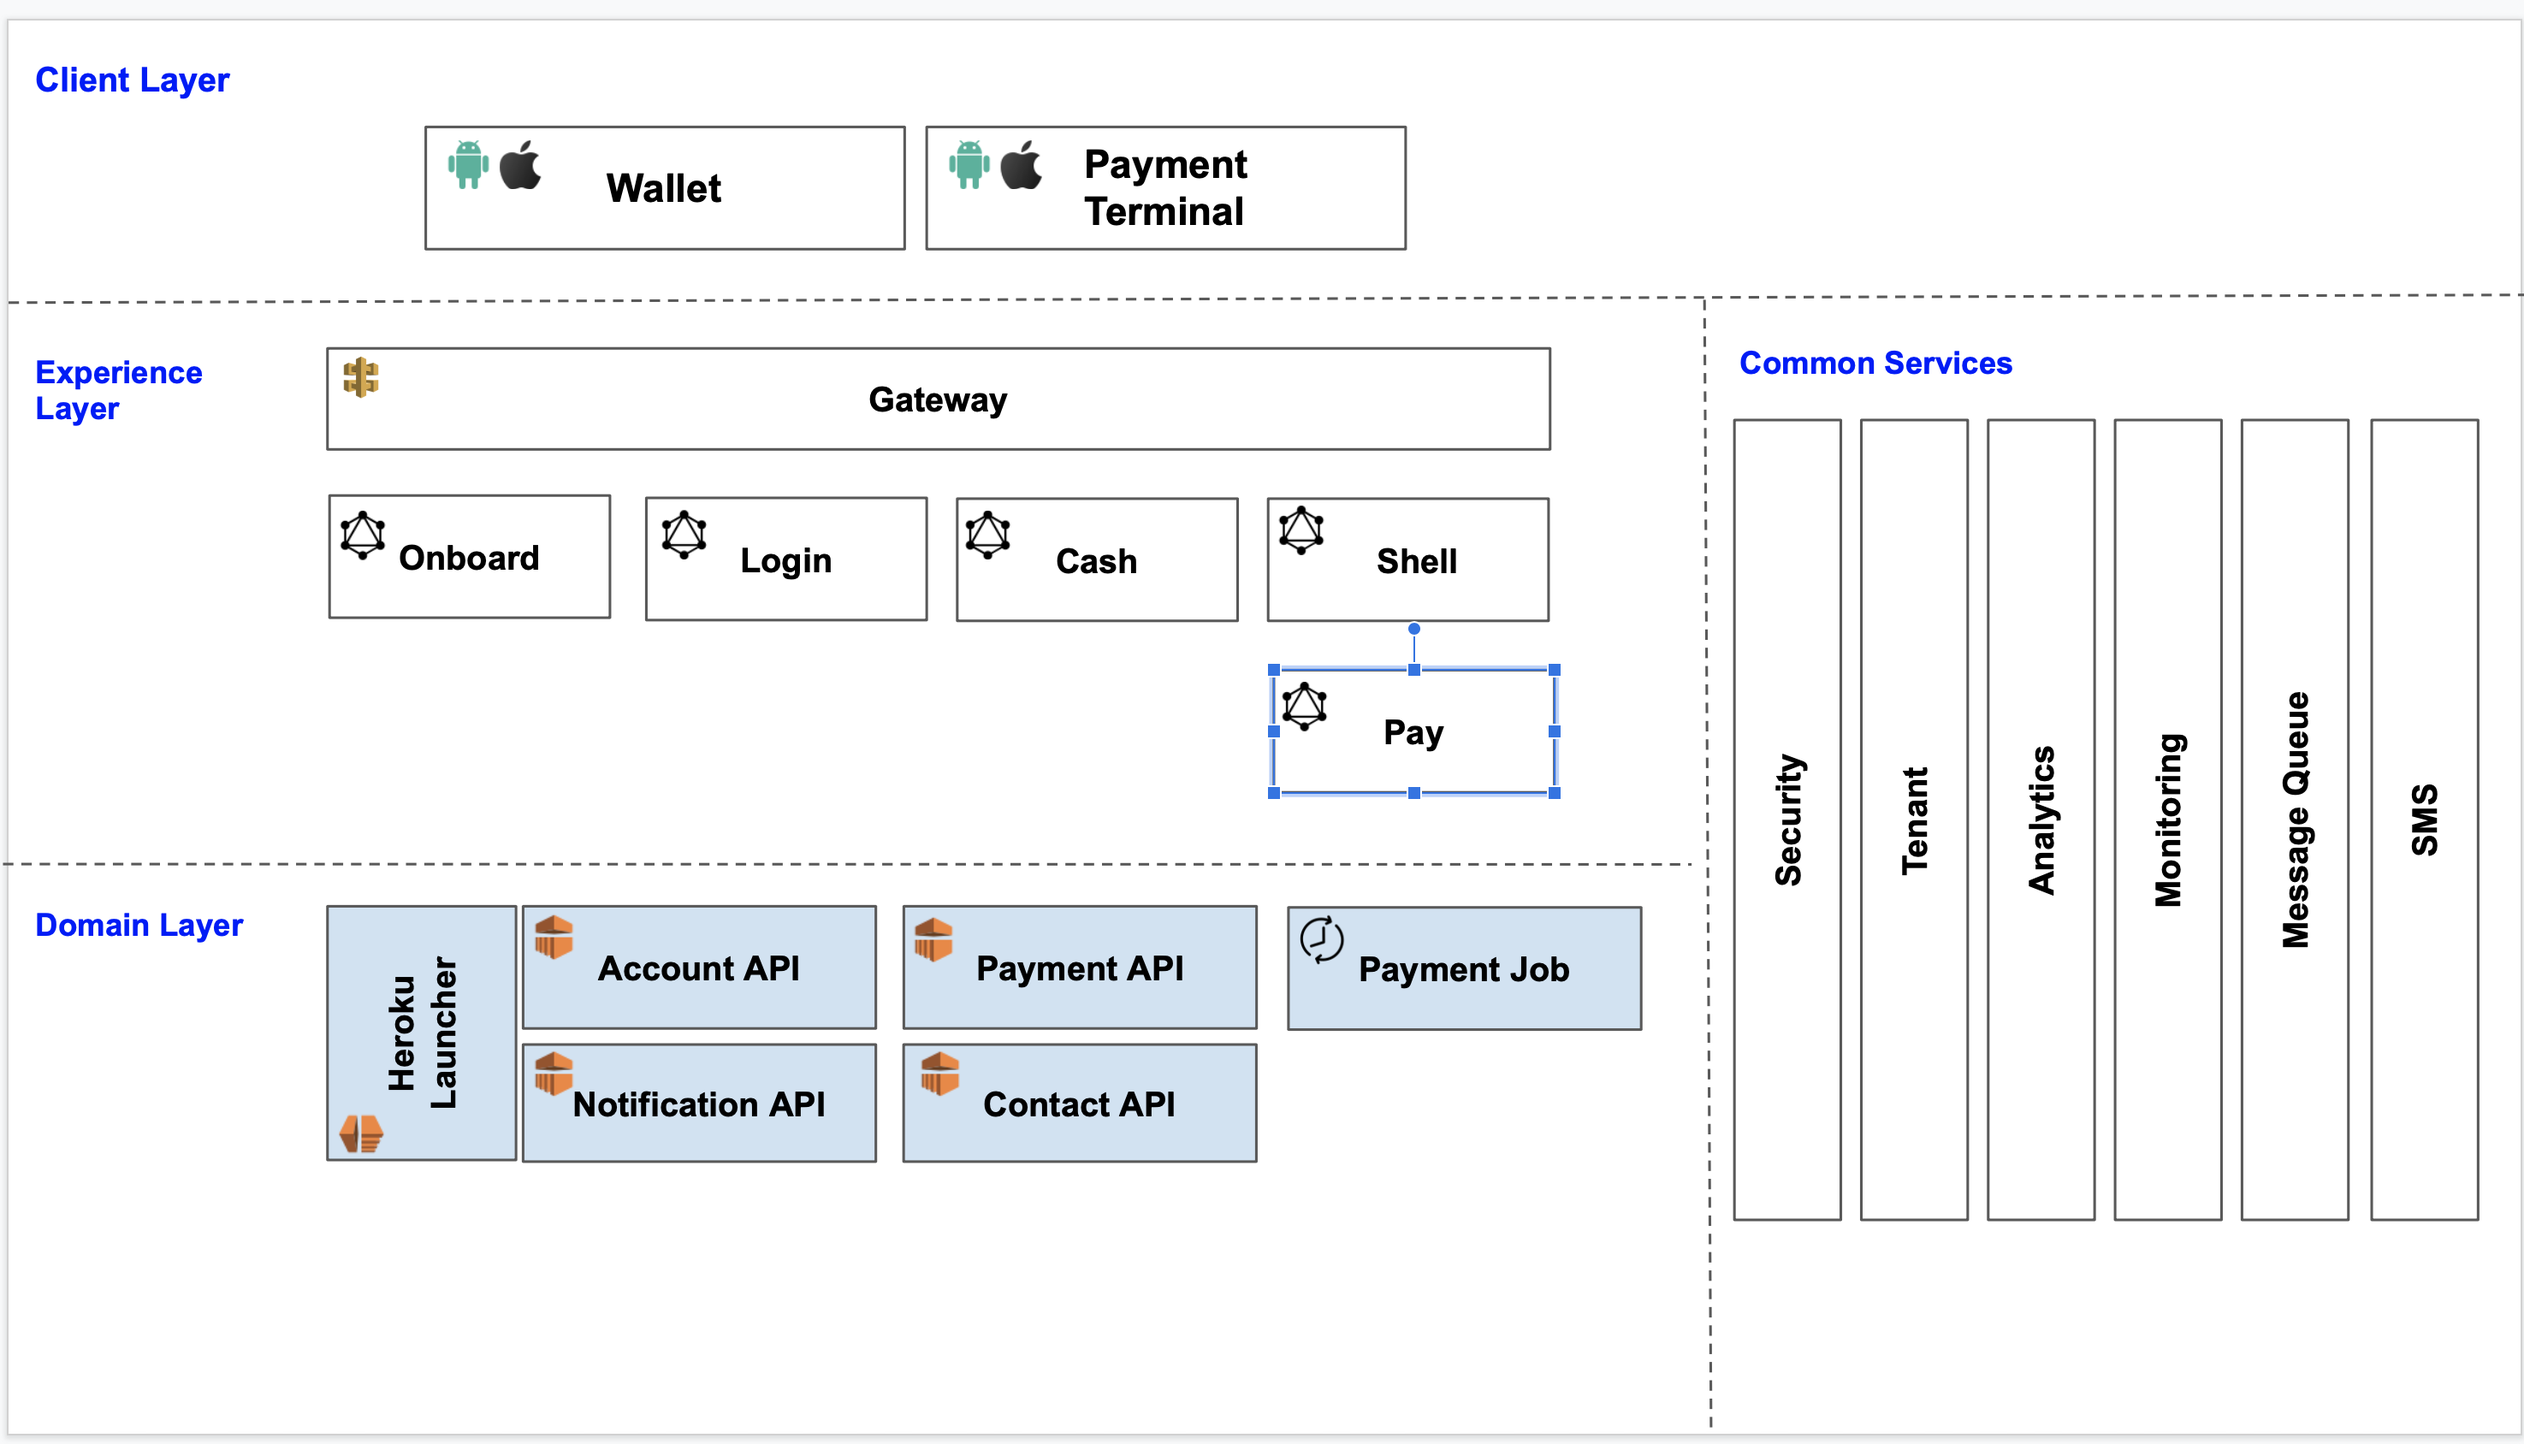
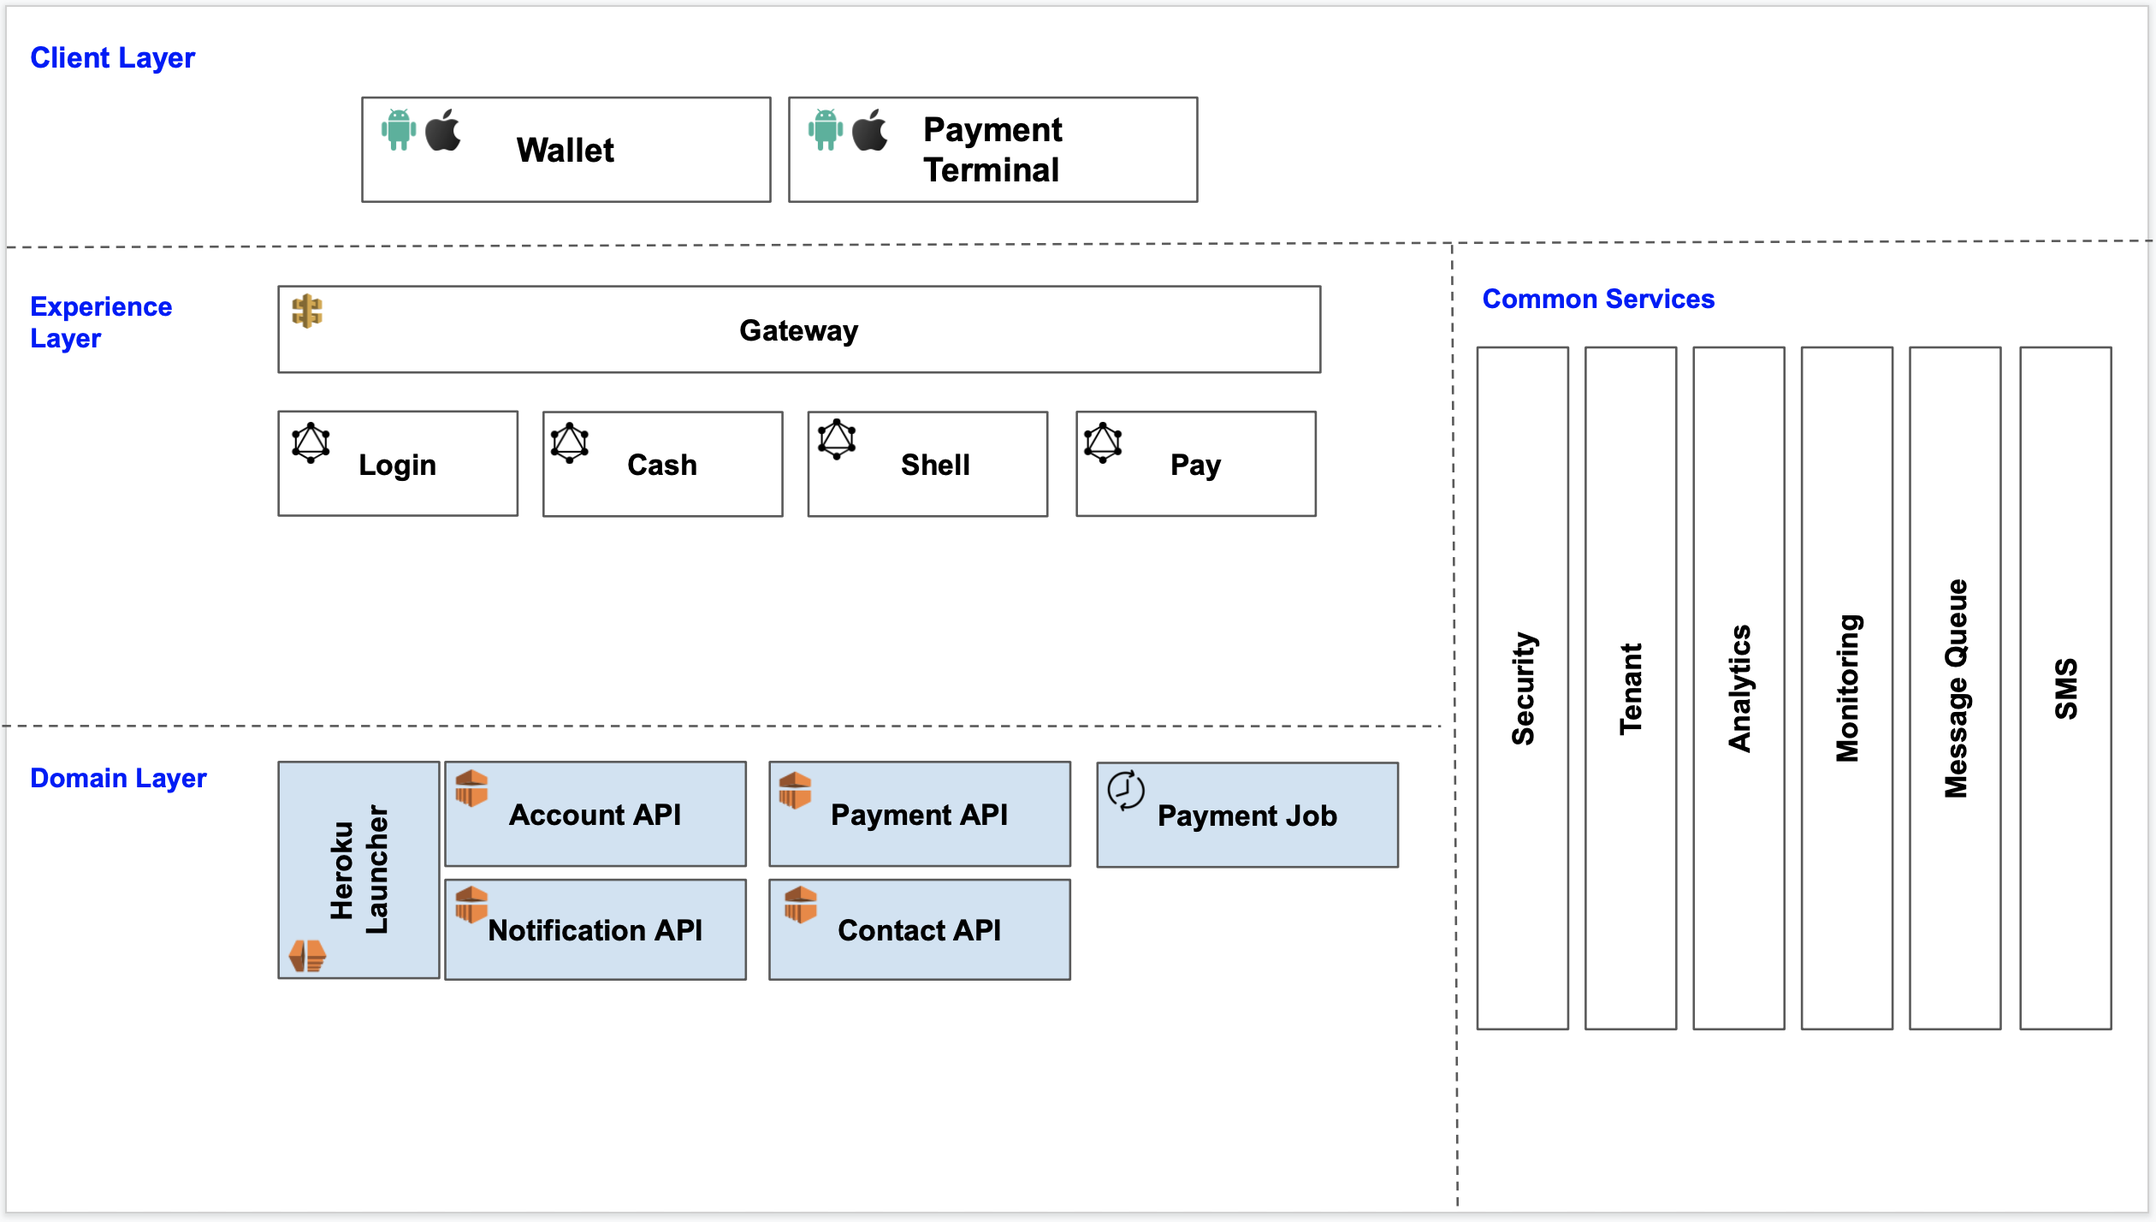
update doc

diff --git a/README.md b/README.md
@@ -7,7 +7,6 @@
 | [wutsi_wallet](https://github.com/wutsi/wutsi_wallet)                     | ![](https://github.com/wutsi/wutsi_wallet/actions/workflows/master.yml/badge.svg)              |                                                                                               |                                                                                                                                             |
 | **Experience Layer**                                                      |
 | [Gateway](https://github.com/wutsi/wutsi-gateway)                         | ![](https://github.com/wutsi/wutsi-gateway/actions/workflows/master.yml/badge.svg)             |                                                                                               | API Gateway                                                                                                                                 |
-| [Onboard BFF](https://github.com/wutsi/wutsi-onboard-bff)                 | ![](https://github.com/wutsi/wutsi-onboard-bff/actions/workflows/master.yml/badge.svg)         |                                                                                               |                                                                                                                                             |
 | [Login BFF](https://github.com/wutsi/wutsi-login-bff)                     | ![](https://github.com/wutsi/wutsi-login-bff/actions/workflows/master.yml/badge.svg)           |                                                                                               |                                                                                                                                             |
 | [Shell BFF](https://github.com/wutsi/wutsi-shell-bff)                     | ![](https://github.com/wutsi/wutsi-shell-bff/actions/workflows/master.yml/badge.svg)           |                                                                                               |                                                                                                                                             |
 | [Cash BFF](https://github.com/wutsi/wutsi-cash-bff)                       | ![](https://github.com/wutsi/wutsi-cash-bff/actions/workflows/master.yml/badge.svg)            |                                                                                               |                                                                                                                                             |
